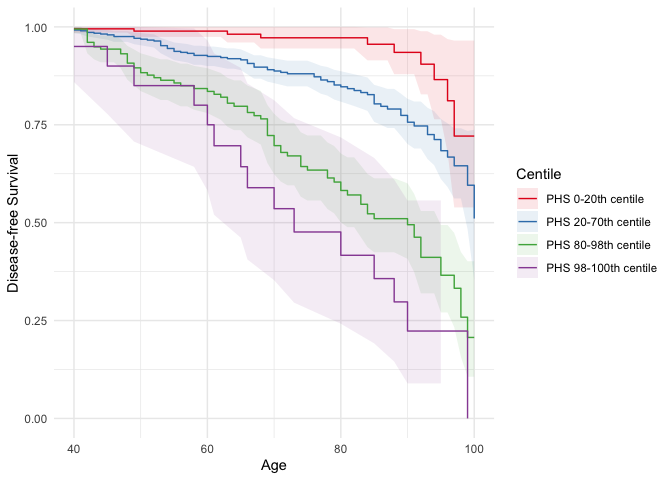
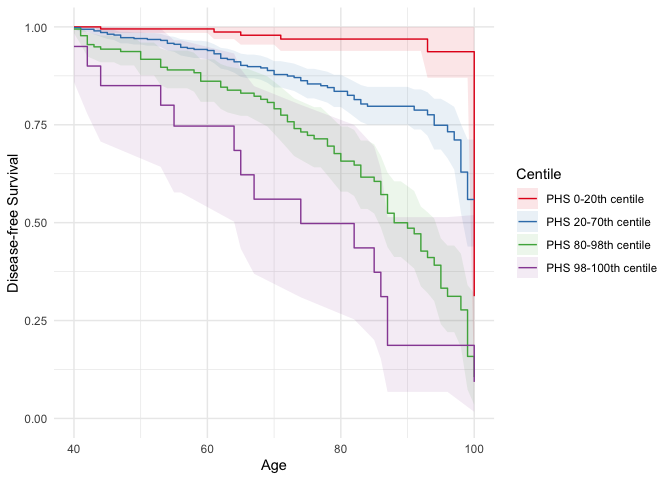
implement bootstrap for the HR function

diff --git a/README.md b/README.md
@@ -20,7 +20,7 @@ First, generate some test data.
 ``` r
 library(ggplot2)
 library(hazrd)
-set.seed(49942138)
+set.seed(46495809)
 
 n = 1000
 status = rbinom(n, 1, 0.2)
@@ -40,14 +40,32 @@ phs_hist(test_data, normalize = TRUE)
 ![](README_files/figure-gfm/phs_hist-1.png)<!-- -->
 
 Then, calculate the hazard ratio comparing the mean of the top 20% of
-PHSes to the mean of the bottom 20% (i.e., `HR80_20`). Similarly,
-calculated the odds ratio at age 70 between the top 20% and bottom 20%
-of PHses.
+PHSes to the mean of the bottom 20% (i.e., `HR80_20`). We can also
+generate 95% confidence intervals using bootstrapping.
 
 ``` r
-HR80_20 = get_hr(test_data)
-OR80_20 = get_or(test_data, or_age = 70)
+HR80_20 = get_hr(test_data, boot = TRUE, B = 300)
+print(HR80_20)
 ```
+
+    ## $HR
+    ## [1] 7.347802
+    ## 
+    ## $lower_CI
+    ## [1] 5.009186
+    ## 
+    ## $upper_CI
+    ## [1] 11.59092
+
+Similarly, calculate the odds ratio at age 70 between the top 20% and
+bottom 20% of PHSes.
+
+``` r
+OR80_20 = get_or(test_data, or_age = 70)
+print(OR80_20)
+```
+
+    ## [1] 0.858156
 
 Finally, plot the Kaplan-Meier curves with confidence intervals for
 centiles of interest.
